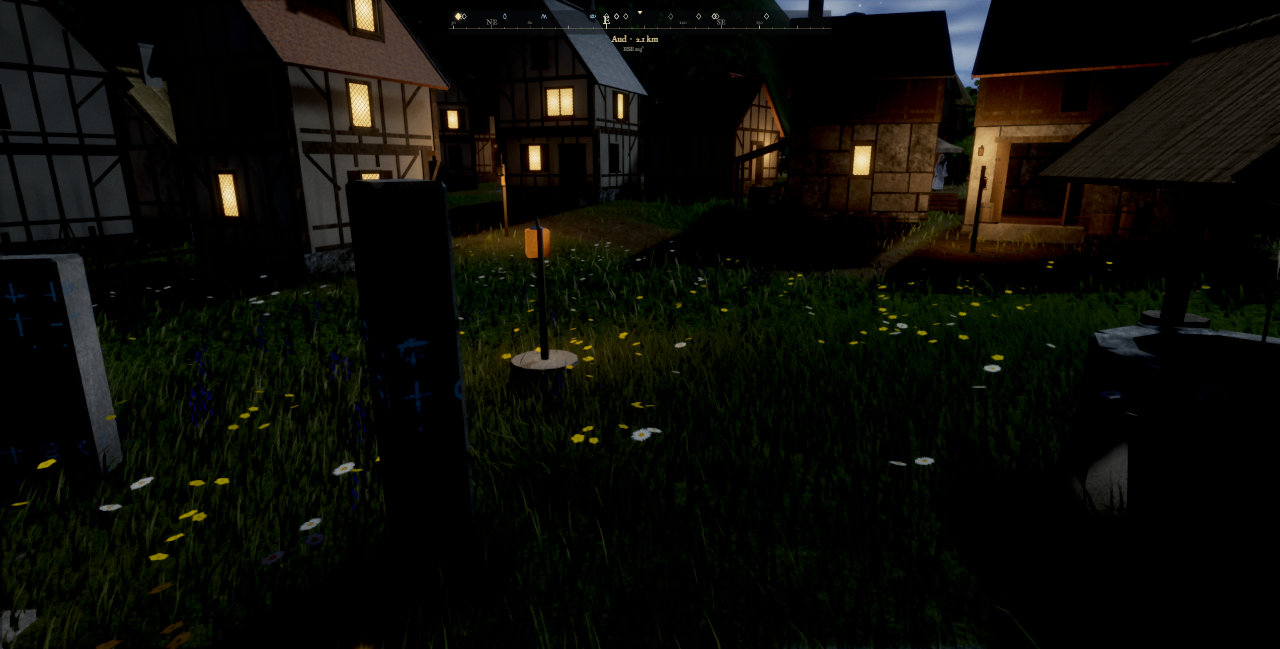
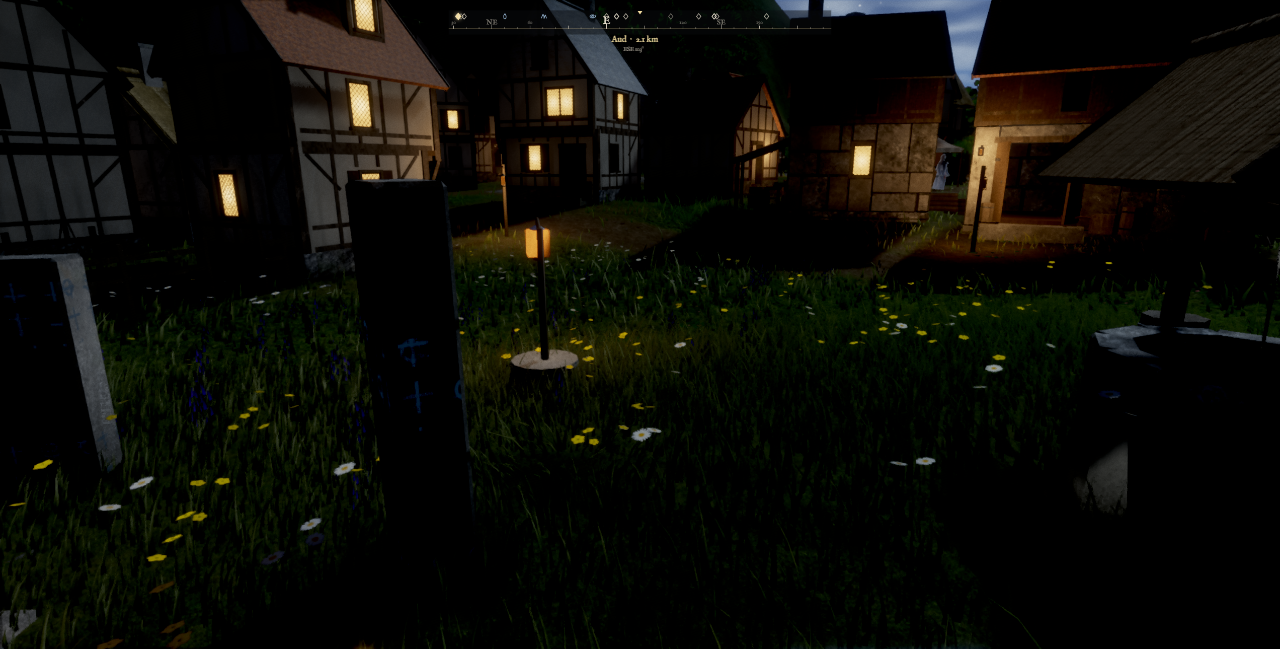
restored: Ketil's lantern post moved onto the green, lit paper shell, warm world light that rises with it; photo spot
Claude-Session: https://claude.ai/code/session_017jhdvvBvrzx8cfqxy6tEiT

diff --git a/src/systems/restored/lantern.js b/src/systems/restored/lantern.js
@@ -31,10 +31,10 @@ export function addLantern(ctx) {
       }
       // Up the hook's height: sinking by a negative amount lifts the site (the architecture seats pillars by seatY - sink).
       s.sink = t < 0 ? 0 : -l.rise * lanternRise(t, l.seconds);
-      const shown = !s.hidden && ctx.restored('meadow'), night = g.worldLights.night;
+      const shown = !s.hidden && ctx.restored("meadow"), dark = g.worldLights.night;
       glow[li * 4 + 3] = shown ? 1 : 0;
-      glow[li * 4 + 1] = shown ? 0.4 + 0.6 * night : 0;   // the shell burns, brighter after dark
-      lamp.y = l.h + 2 - s.sink; lamp.level = shown ? 0.25 + 0.75 * night : 0;
+      glow[li * 4 + 1] = shown ? 0.4 + 0.6 * dark : 0;   // the shell burns, brighter after dark
+      lamp.y = l.h + 2 - s.sink; lamp.level = shown ? 0.25 + 0.75 * dark : 0;
       if (t >= 0 || lit || !flags.has('meadow:lantern-told') || !ctx.restored('meadow')) return;
       if (!gale.updraftEvent) return;
       const p = controller.pos;
